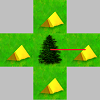
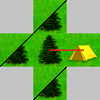
Added check for duplicate branches in CaseLinkTree. Updated graphic for CaseLinkTree.

Changed region(s): [[0.0, 0.0, 0.69, 0.69], [0.33, 0.66, 0.69, 1.0], [0.48, 0.45, 0.9, 0.63]]

diff --git a/code/edu/rpi/phil/legup/puzzles/treetent/CaseLinkTree.java b/code/edu/rpi/phil/legup/puzzles/treetent/CaseLinkTree.java
@@ -97,6 +97,7 @@ public class CaseLinkTree extends CaseRule
 			{
 				rv = "There is not one branch for each blank adjacent to the tree.";
 			}
+			Vector<Point> tents = new Vector<Point>(); //location of tent in each branch
 			for(BoardState b : parent.getTransitionsFrom())
 			{
 				if(calcAdjacentTiles(b,p,TreeTent.CELL_UNKNOWN) != 0)
@@ -120,6 +121,15 @@ public class CaseLinkTree extends CaseRule
 				{
 					rv = "The link must link a tent and a tree, which is\nnot the case for branch "+(parent.getTransitionsFrom().indexOf(b)+1);
 					break;
+				}
+				else
+				{
+					if(tents.contains(p1))
+					{
+						rv = "Branch "+(tents.indexOf(p1)+1)+" is the same as branch "+(parent.getTransitionsFrom().indexOf(b)+1)+".\nNot all cases are covered.";
+						break;
+					}
+					tents.add(p1);
 				}
 				ArrayList<Point> dif = BoardState.getDifferenceLocations(b,parent);
 				if(dif.size() != num_adj_blanks)
